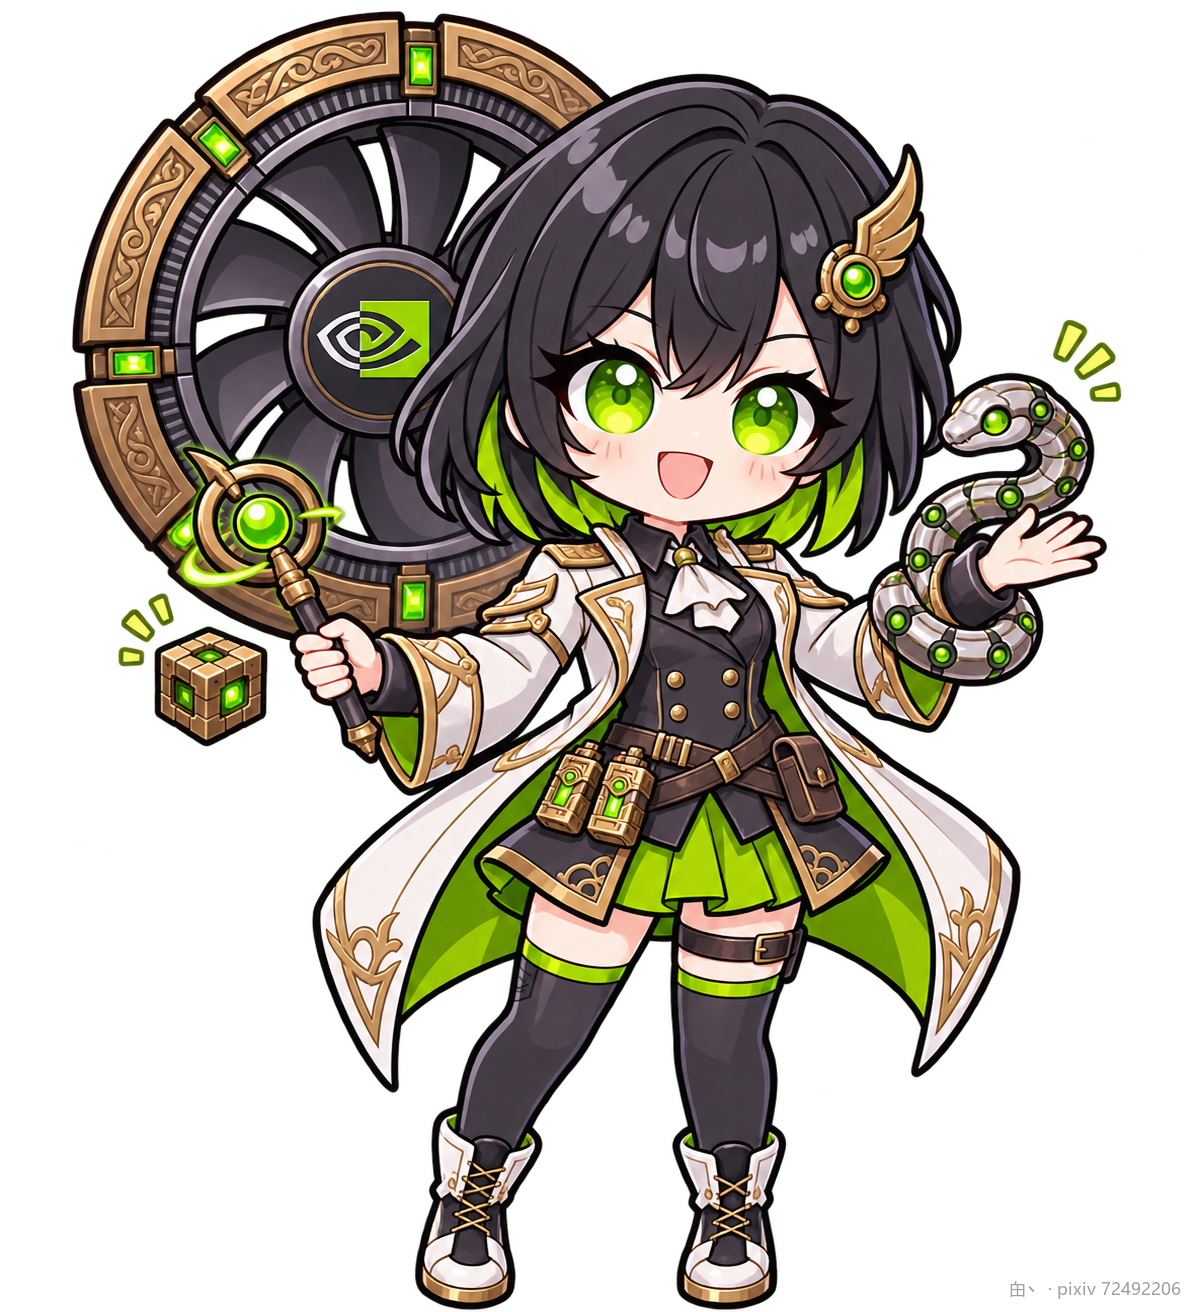
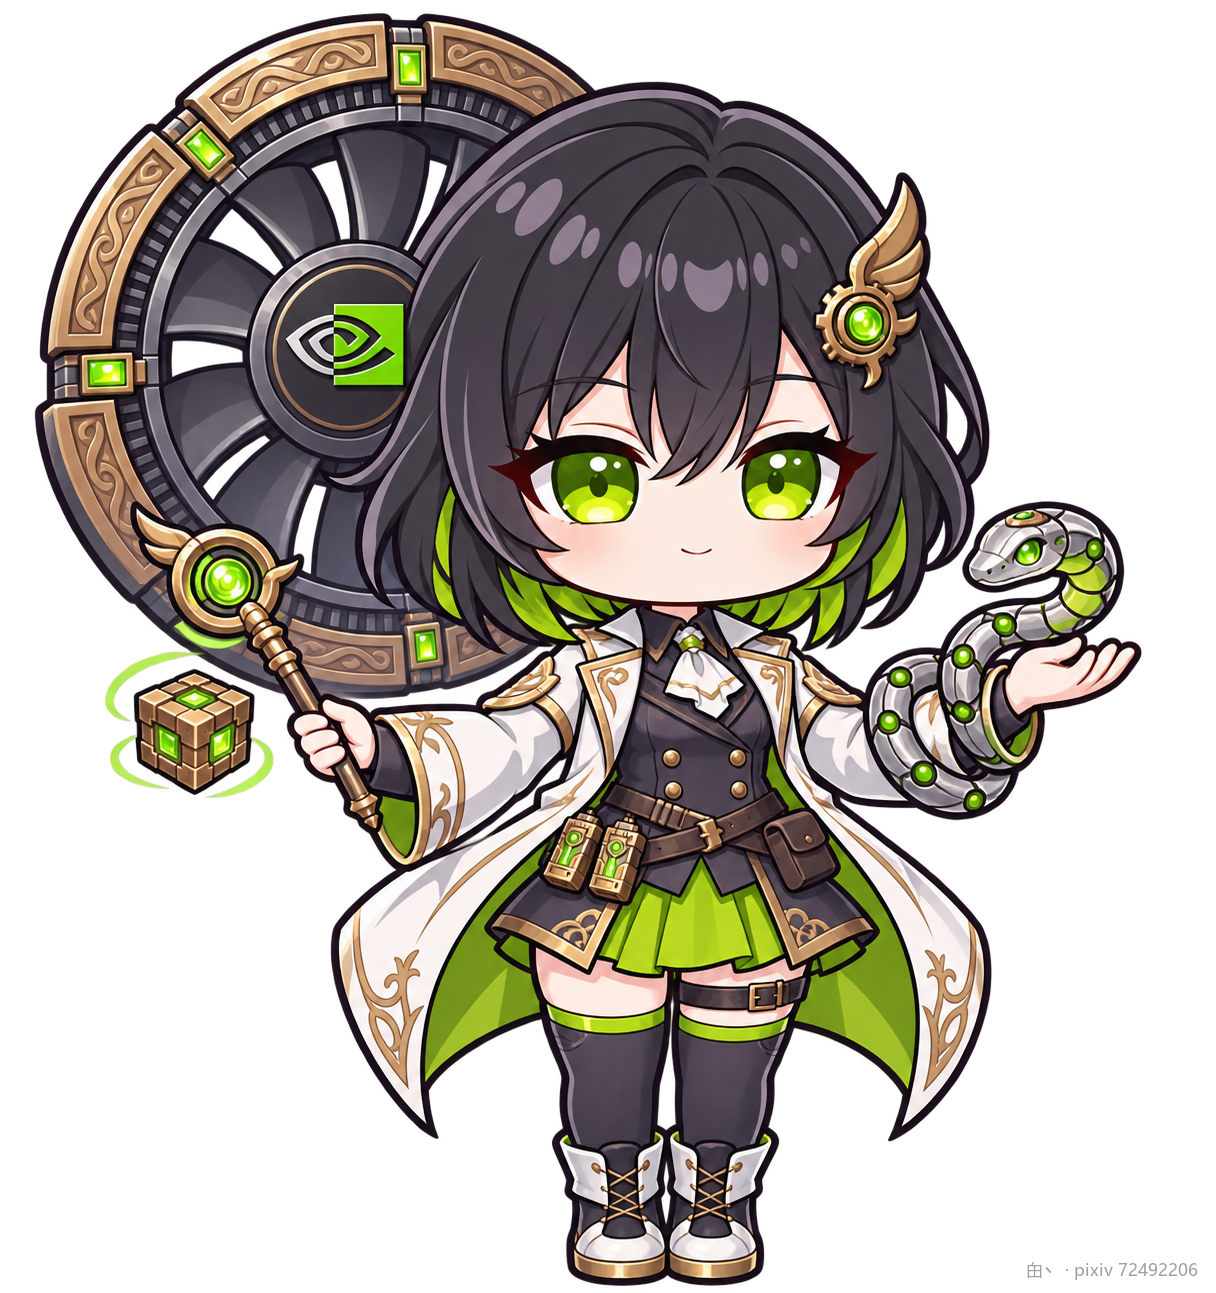
v1.13.1: 重出 Nemotron 娘 Q版与正圆头像（回归 2.0 头身安静微笑与极简平铺圆底版式）

diff --git a/CHANGELOG.md b/CHANGELOG.md
@@ -2,6 +2,14 @@
 
 格式：日期 · 版本 · 改了什么。物料会继续补齐，引用时建议带版本或日期。
 
+## v1.13.1 · 2026-11-27
+
+**重出 Nemotron 娘 2 张 Q 版与 2 张正圆头像，回归全库正宗 2.0 头身安静细微笑与 `mimo圆头像` 极简圆底版式**
+
+- 锚定 `hunyuan Q版 a.png` 重出 `nemotron Q版 a.png`、`nemotron Q版 b.png`（2.0 头身圆润短腿＋冷静淡定细闭嘴微笑，贴合重工架构师人设）；
+- 锚定 `mimo圆头像.png` 重出 `nemotron 头像 a.png`、`nemotron 头像 b.png`（纯 `#76B900` 极简平铺圆底＋安静大头近景＋双手胸前合抱模块方匣与蜷缩迷你曼巴蛇）；
+- 增量刷新上述 4 张纯白底水印图、`_清单.json` 与 `_md5.txt`（正式主库维持 **14 角色 / 190 张**）。
+
 ## v1.13 · 2026-11-27
 
 **新增 Nemotron 娘全套 13 张标准物料包（NVIDIA Nemotron 3 / 3.5 · Nano / Super / Ultra · 奇幻风轮炼金机工师 × 科幻模块化涡轮架构师）**
